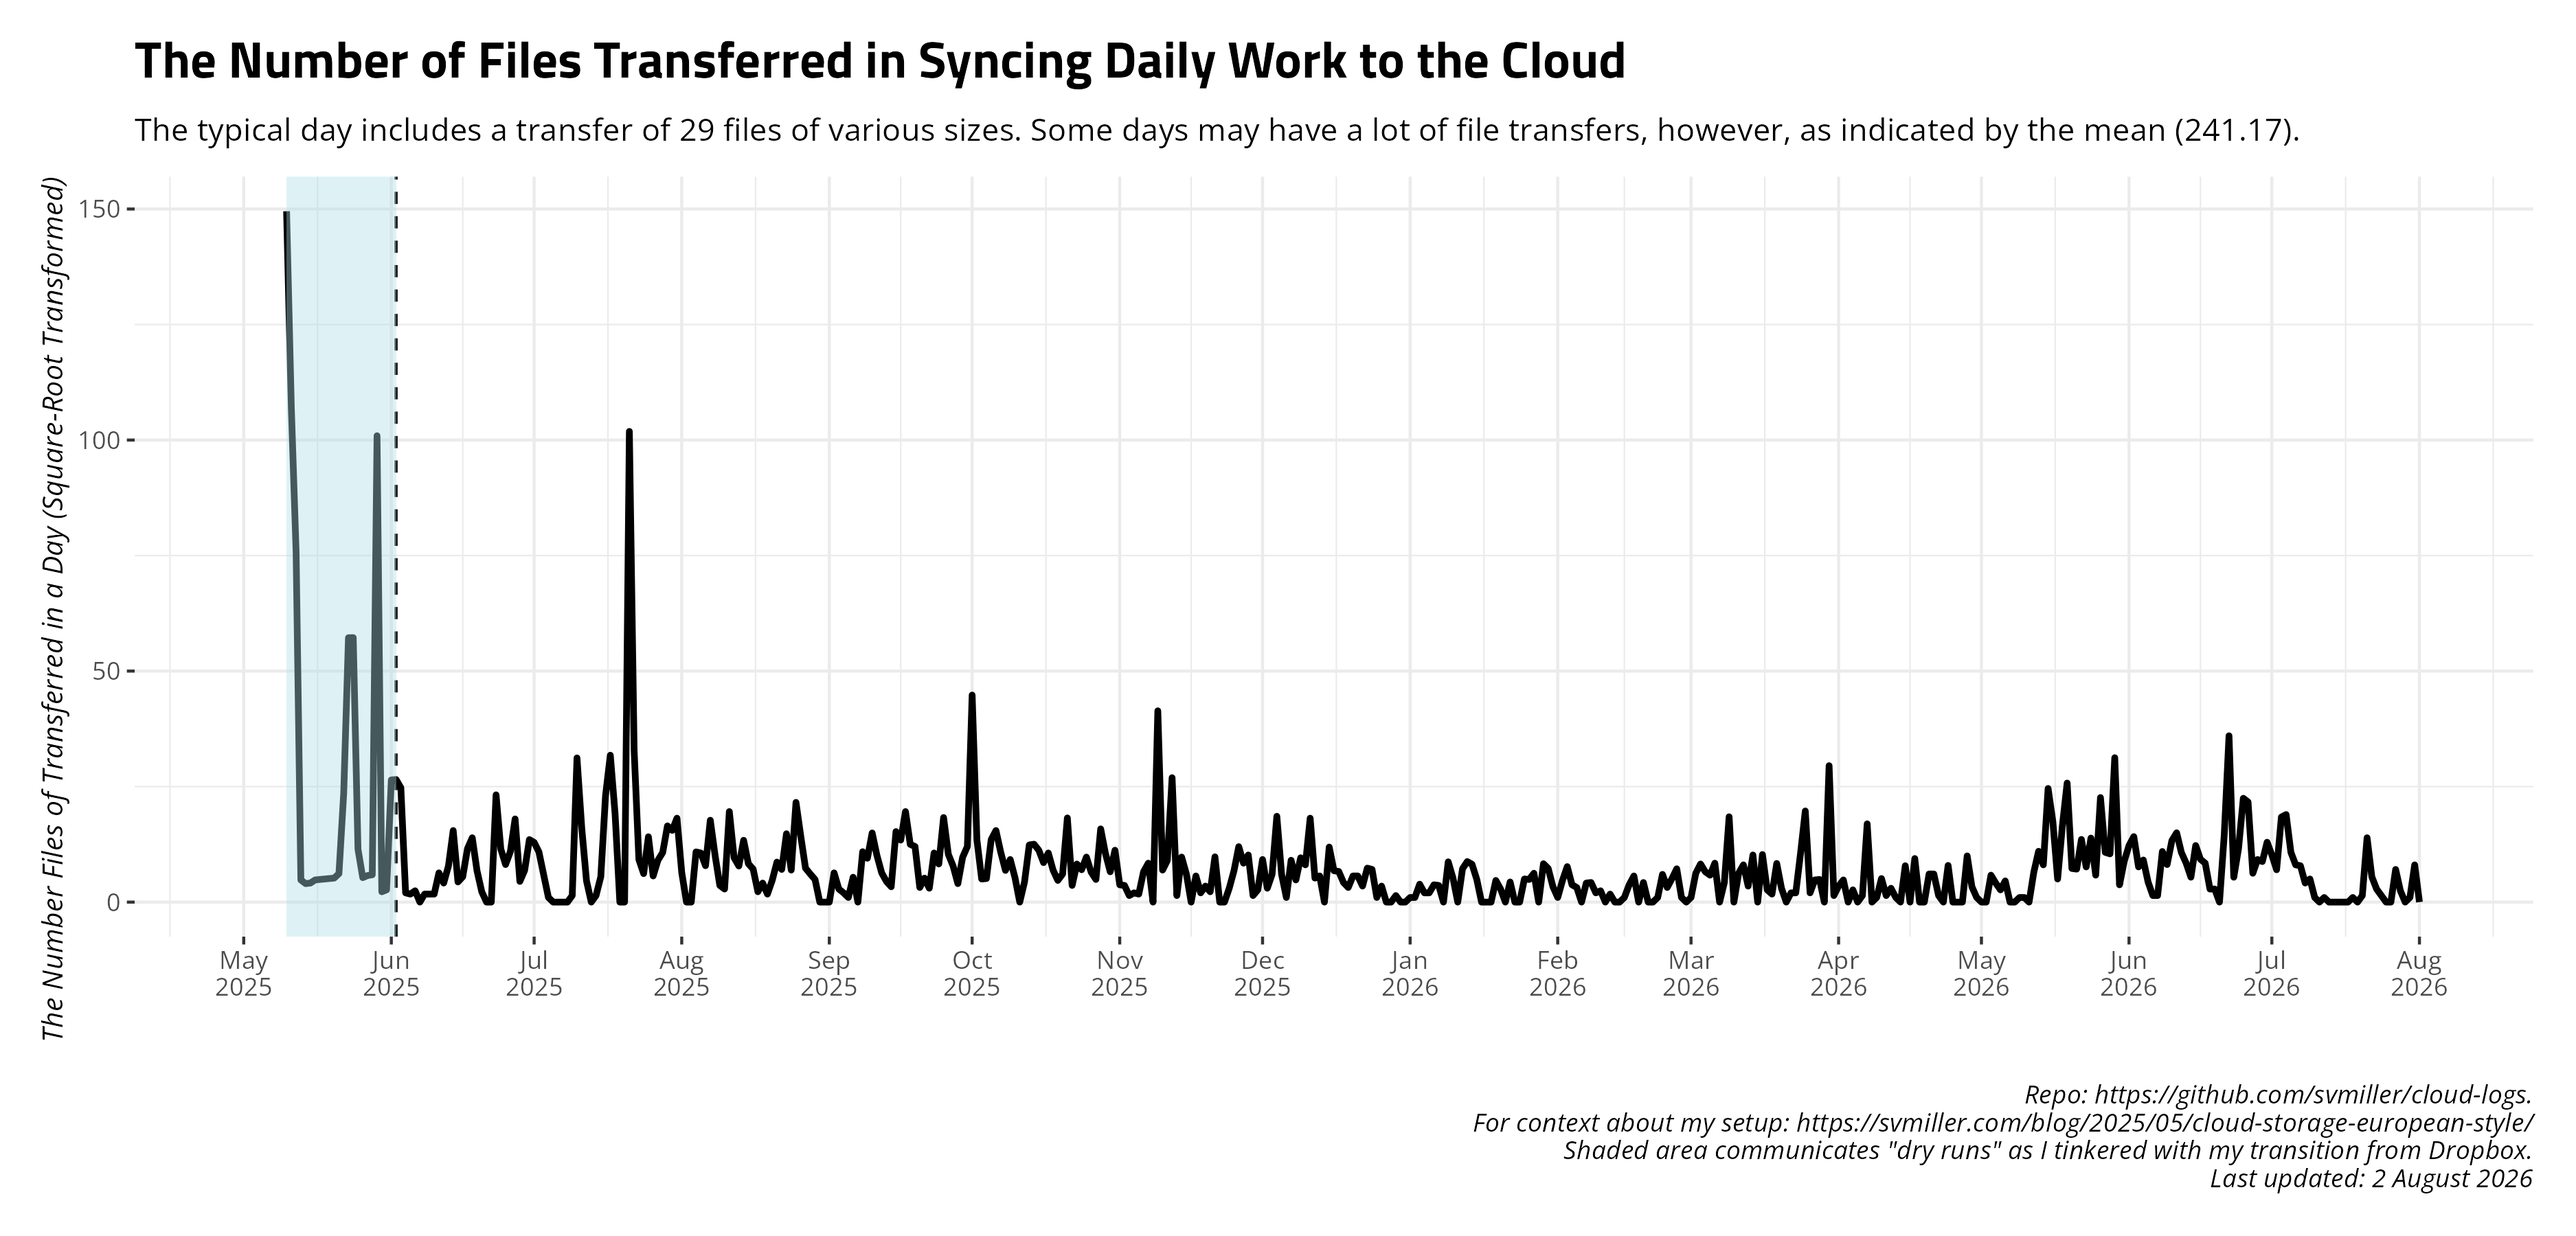
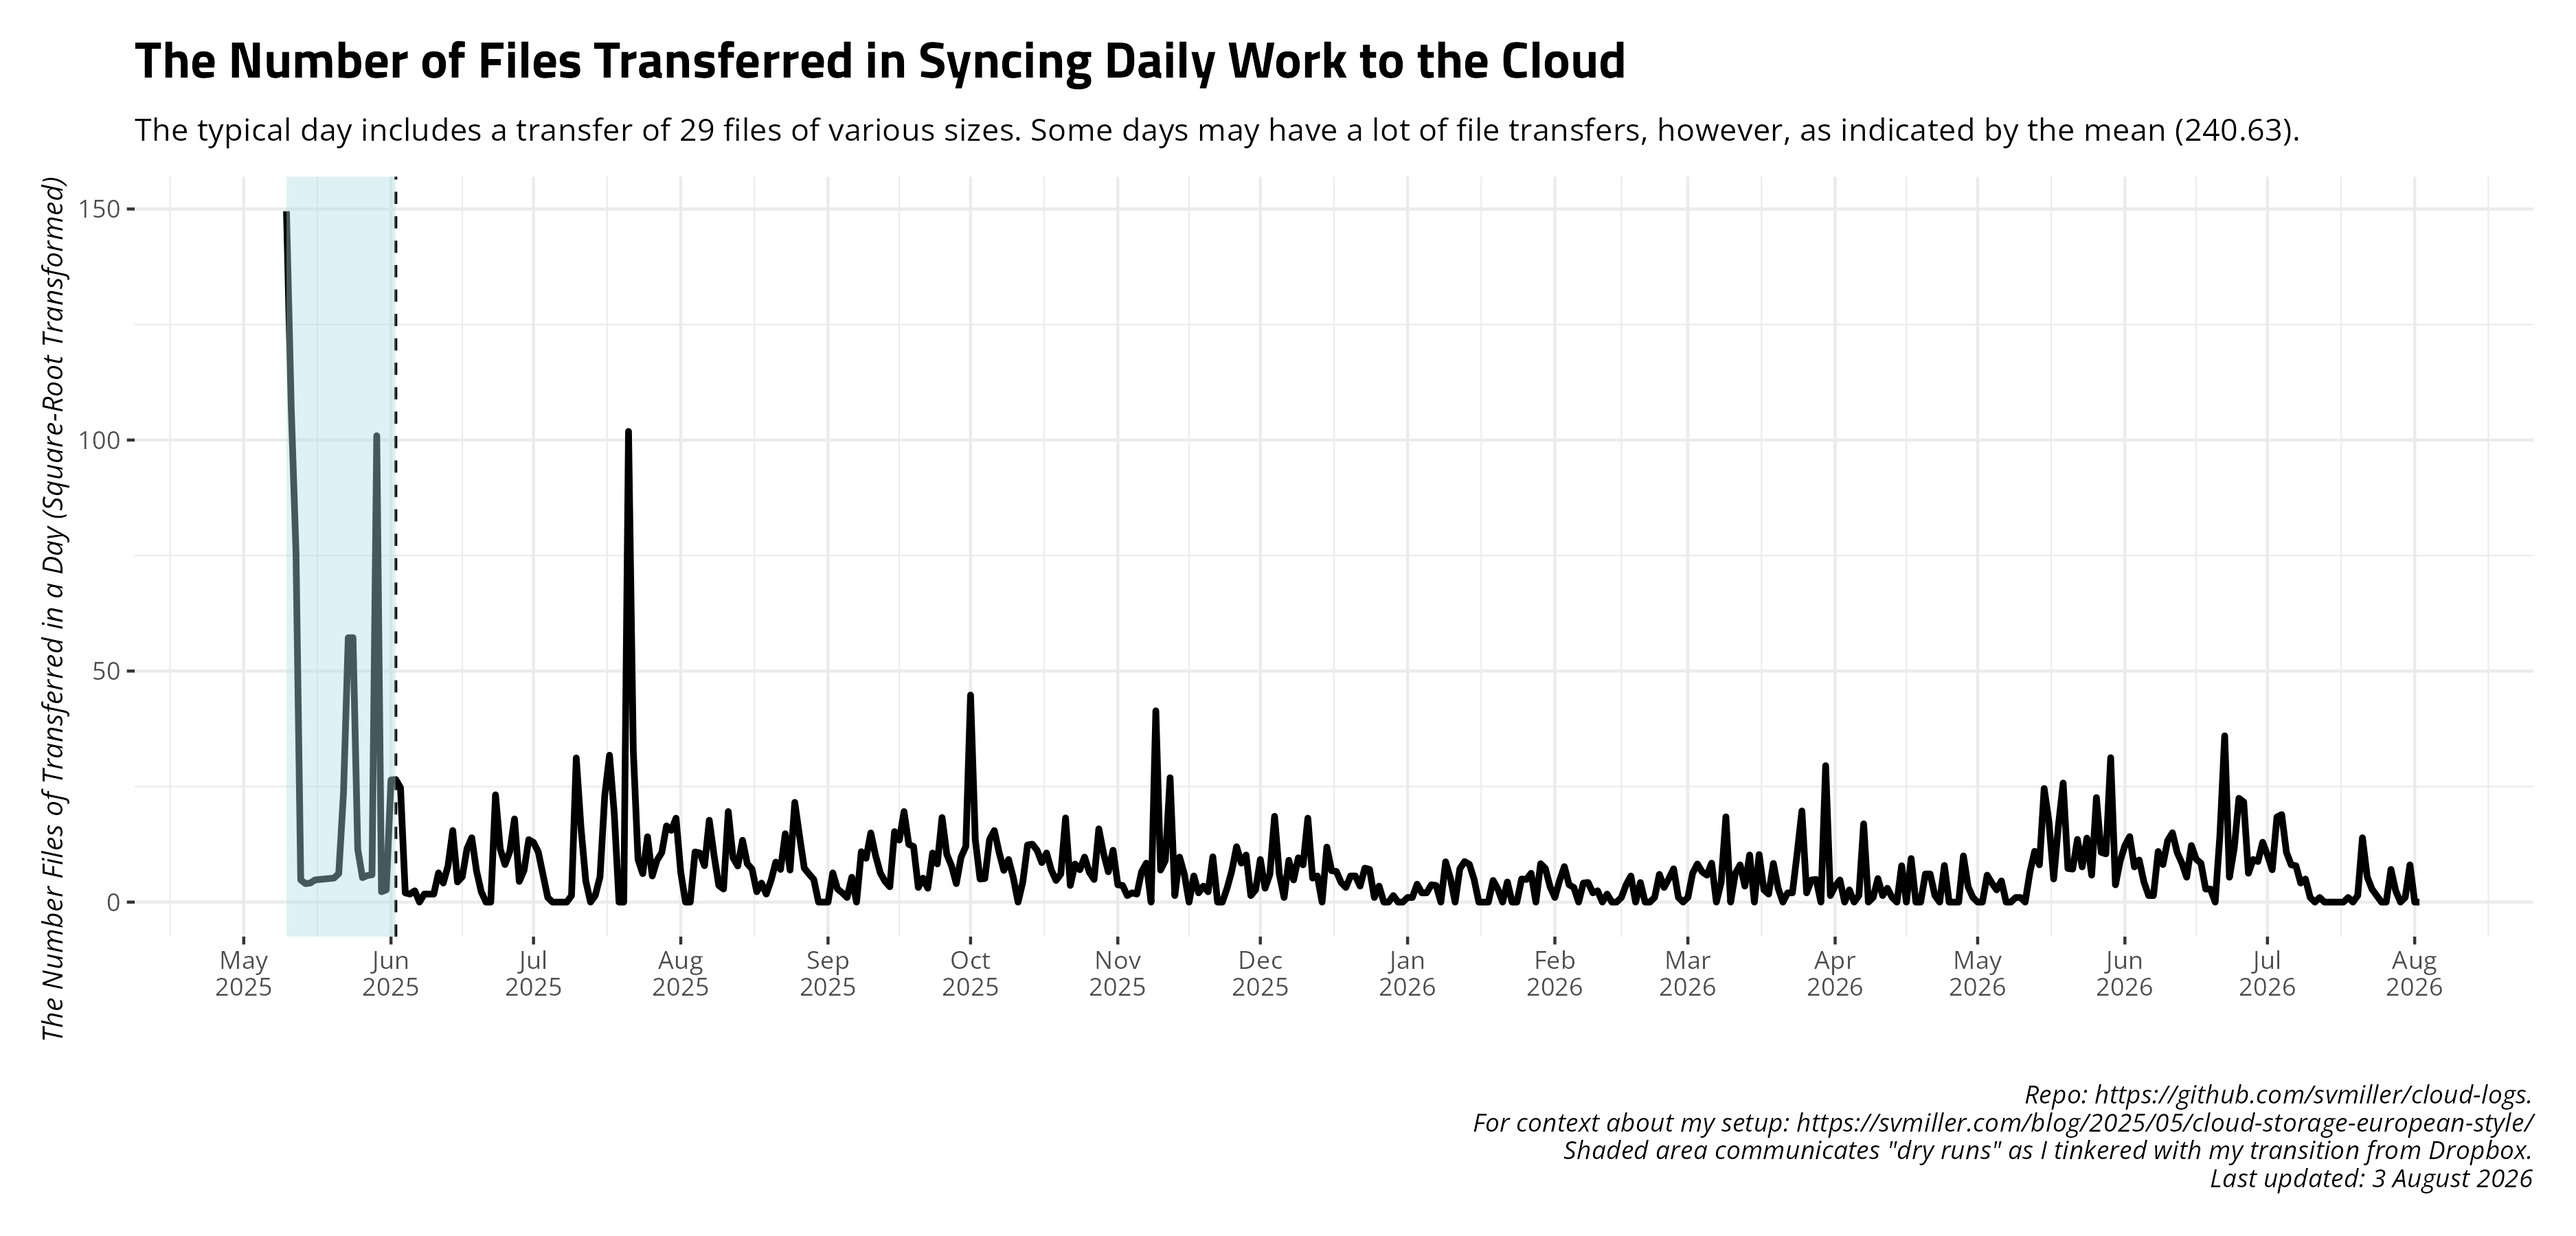
Date: 2026-08-03 09:00:34. Hi mom!

diff --git a/README.md b/README.md
@@ -27,17 +27,17 @@ and uploads to Github.
     #> # A tibble: 14 × 4
     #>    date       ftransfer stransfer    elapsed 
     #>    <date>         <dbl> <chr>        <chr>   
-    #>  1 2026-07-19         0 <NA>         18m26.1s
-    #>  2 2026-07-20         2 59.563 KiB   5m46.9s 
-    #>  3 2026-07-21       194 766.281 KiB  4m40.3s 
-    #>  4 2026-07-22        30 85.817 KiB   4m41.8s 
-    #>  5 2026-07-23         8 9.150 MiB    9m39.1s 
-    #>  6 2026-07-24         2 65.241 KiB   4m46.2s 
-    #>  7 2026-07-25         0 <NA>         4m36.5s 
-    #>  8 2026-07-26         0 <NA>         21m4.7s 
-    #>  9 2026-07-27        50 17.862 MiB   4m40.5s 
-    #> 10 2026-07-28         6 1023.222 KiB 4m44.8s 
-    #> 11 2026-07-29         0 <NA>         39m39.7s
-    #> 12 2026-07-30         1 60.194 KiB   4m45.8s 
-    #> 13 2026-07-31        65 447.626 KiB  4m45.2s 
-    #> 14 2026-08-01         0 <NA>         7m31.3s
+    #>  1 2026-07-20         2 59.563 KiB   5m46.9s 
+    #>  2 2026-07-21       194 766.281 KiB  4m40.3s 
+    #>  3 2026-07-22        30 85.817 KiB   4m41.8s 
+    #>  4 2026-07-23         8 9.150 MiB    9m39.1s 
+    #>  5 2026-07-24         2 65.241 KiB   4m46.2s 
+    #>  6 2026-07-25         0 <NA>         4m36.5s 
+    #>  7 2026-07-26         0 <NA>         21m4.7s 
+    #>  8 2026-07-27        50 17.862 MiB   4m40.5s 
+    #>  9 2026-07-28         6 1023.222 KiB 4m44.8s 
+    #> 10 2026-07-29         0 <NA>         39m39.7s
+    #> 11 2026-07-30         1 60.194 KiB   4m45.8s 
+    #> 12 2026-07-31        65 447.626 KiB  4m45.2s 
+    #> 13 2026-08-01         0 <NA>         7m31.3s 
+    #> 14 2026-08-02         0 <NA>         5m27.8s
